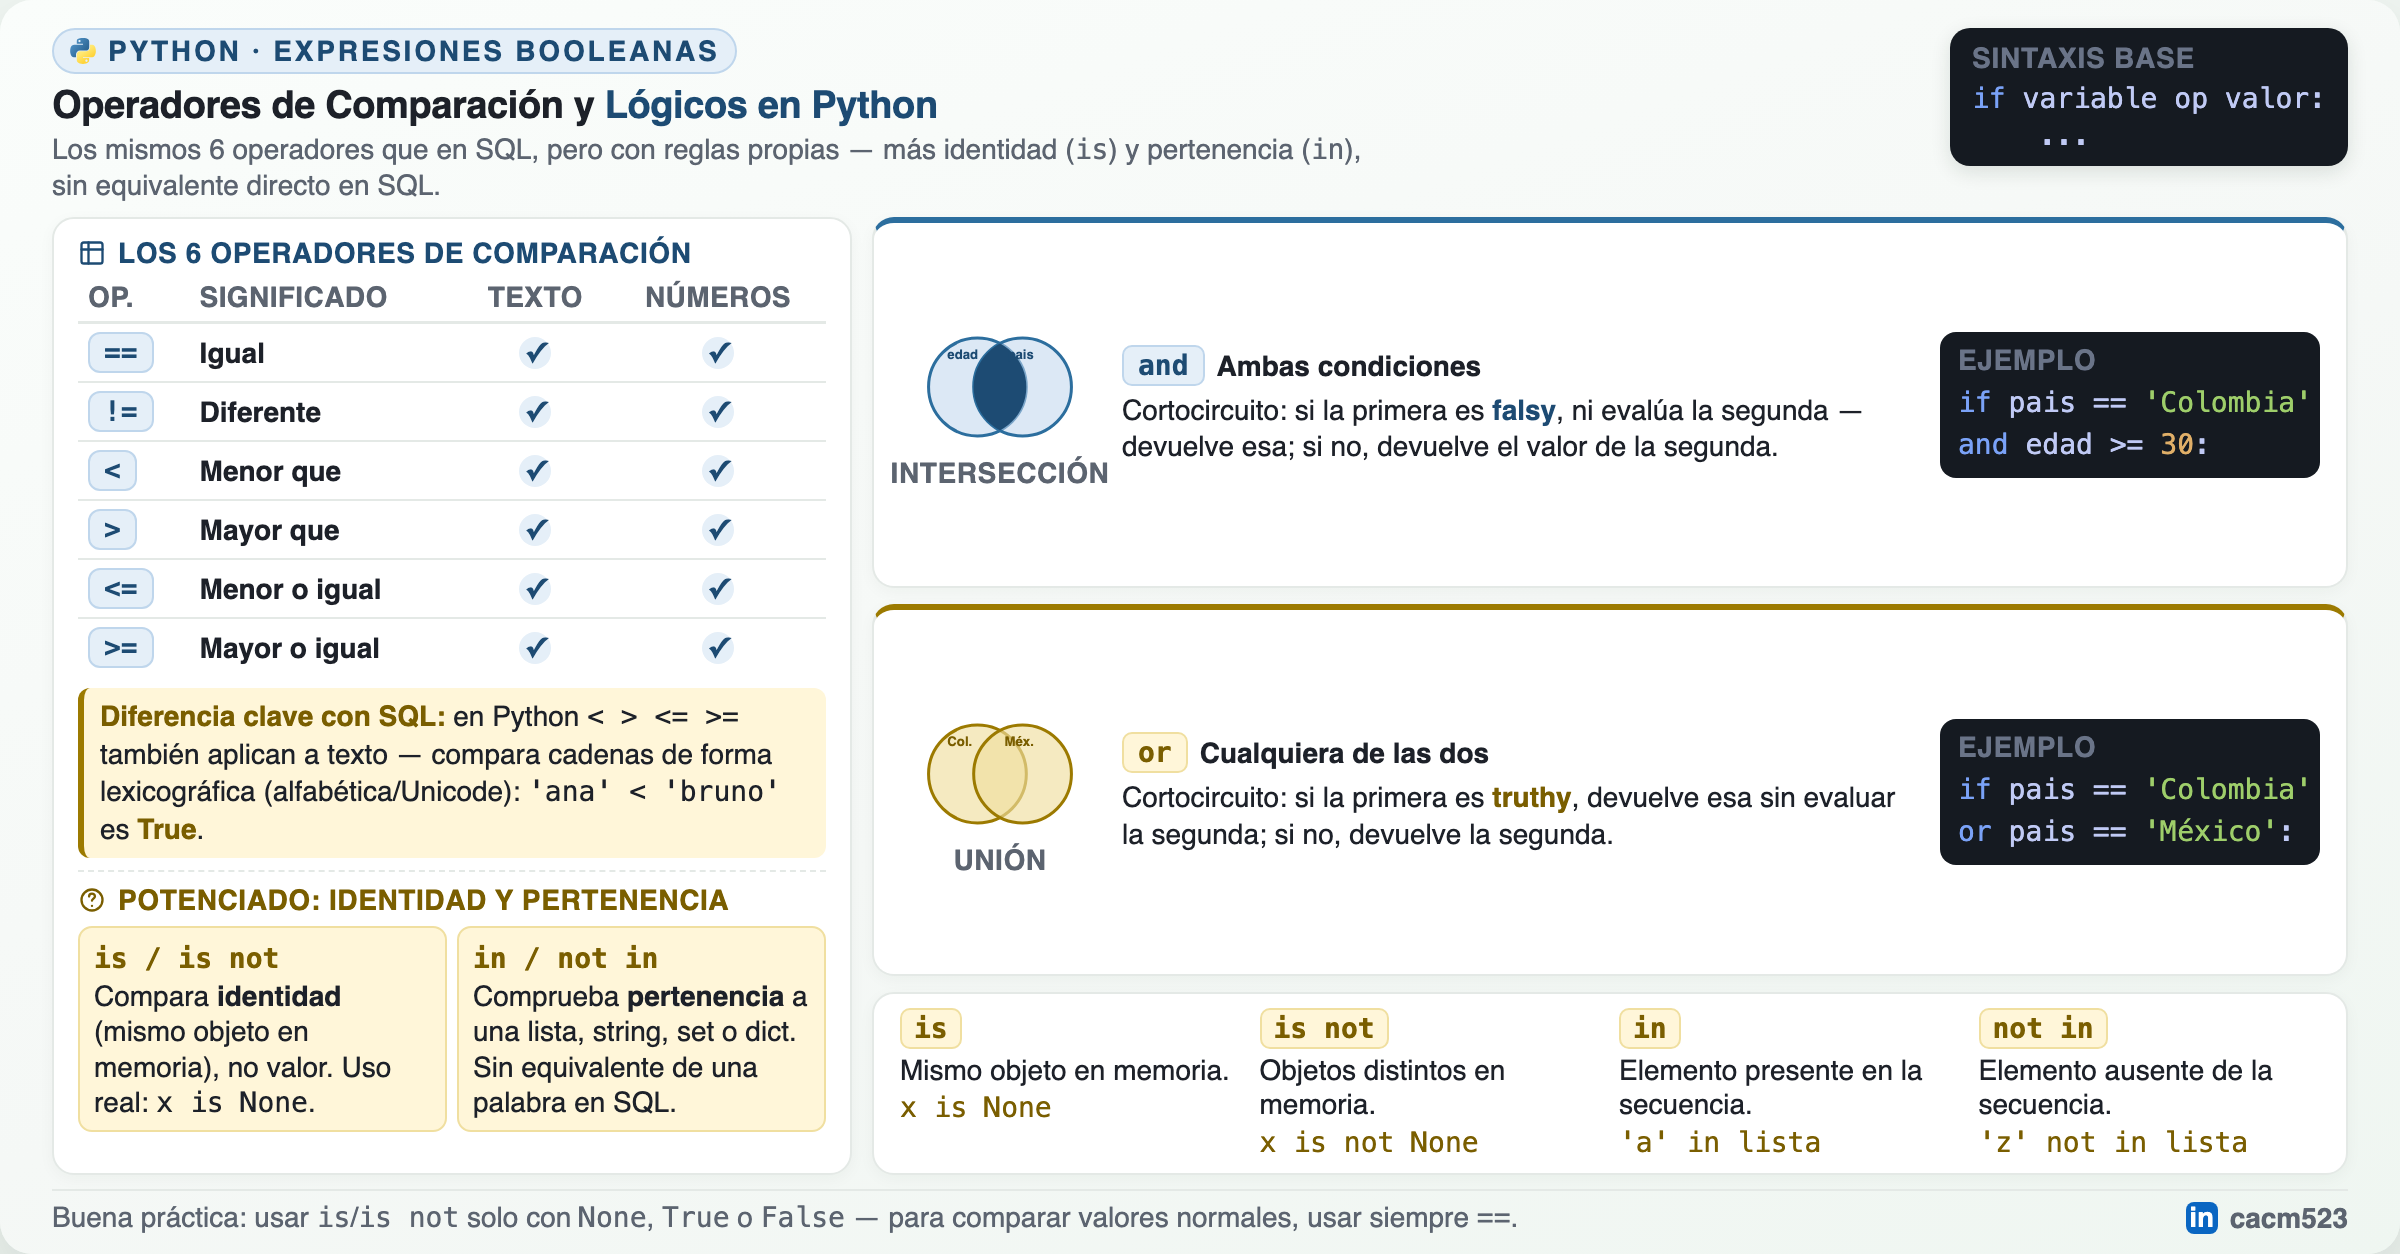
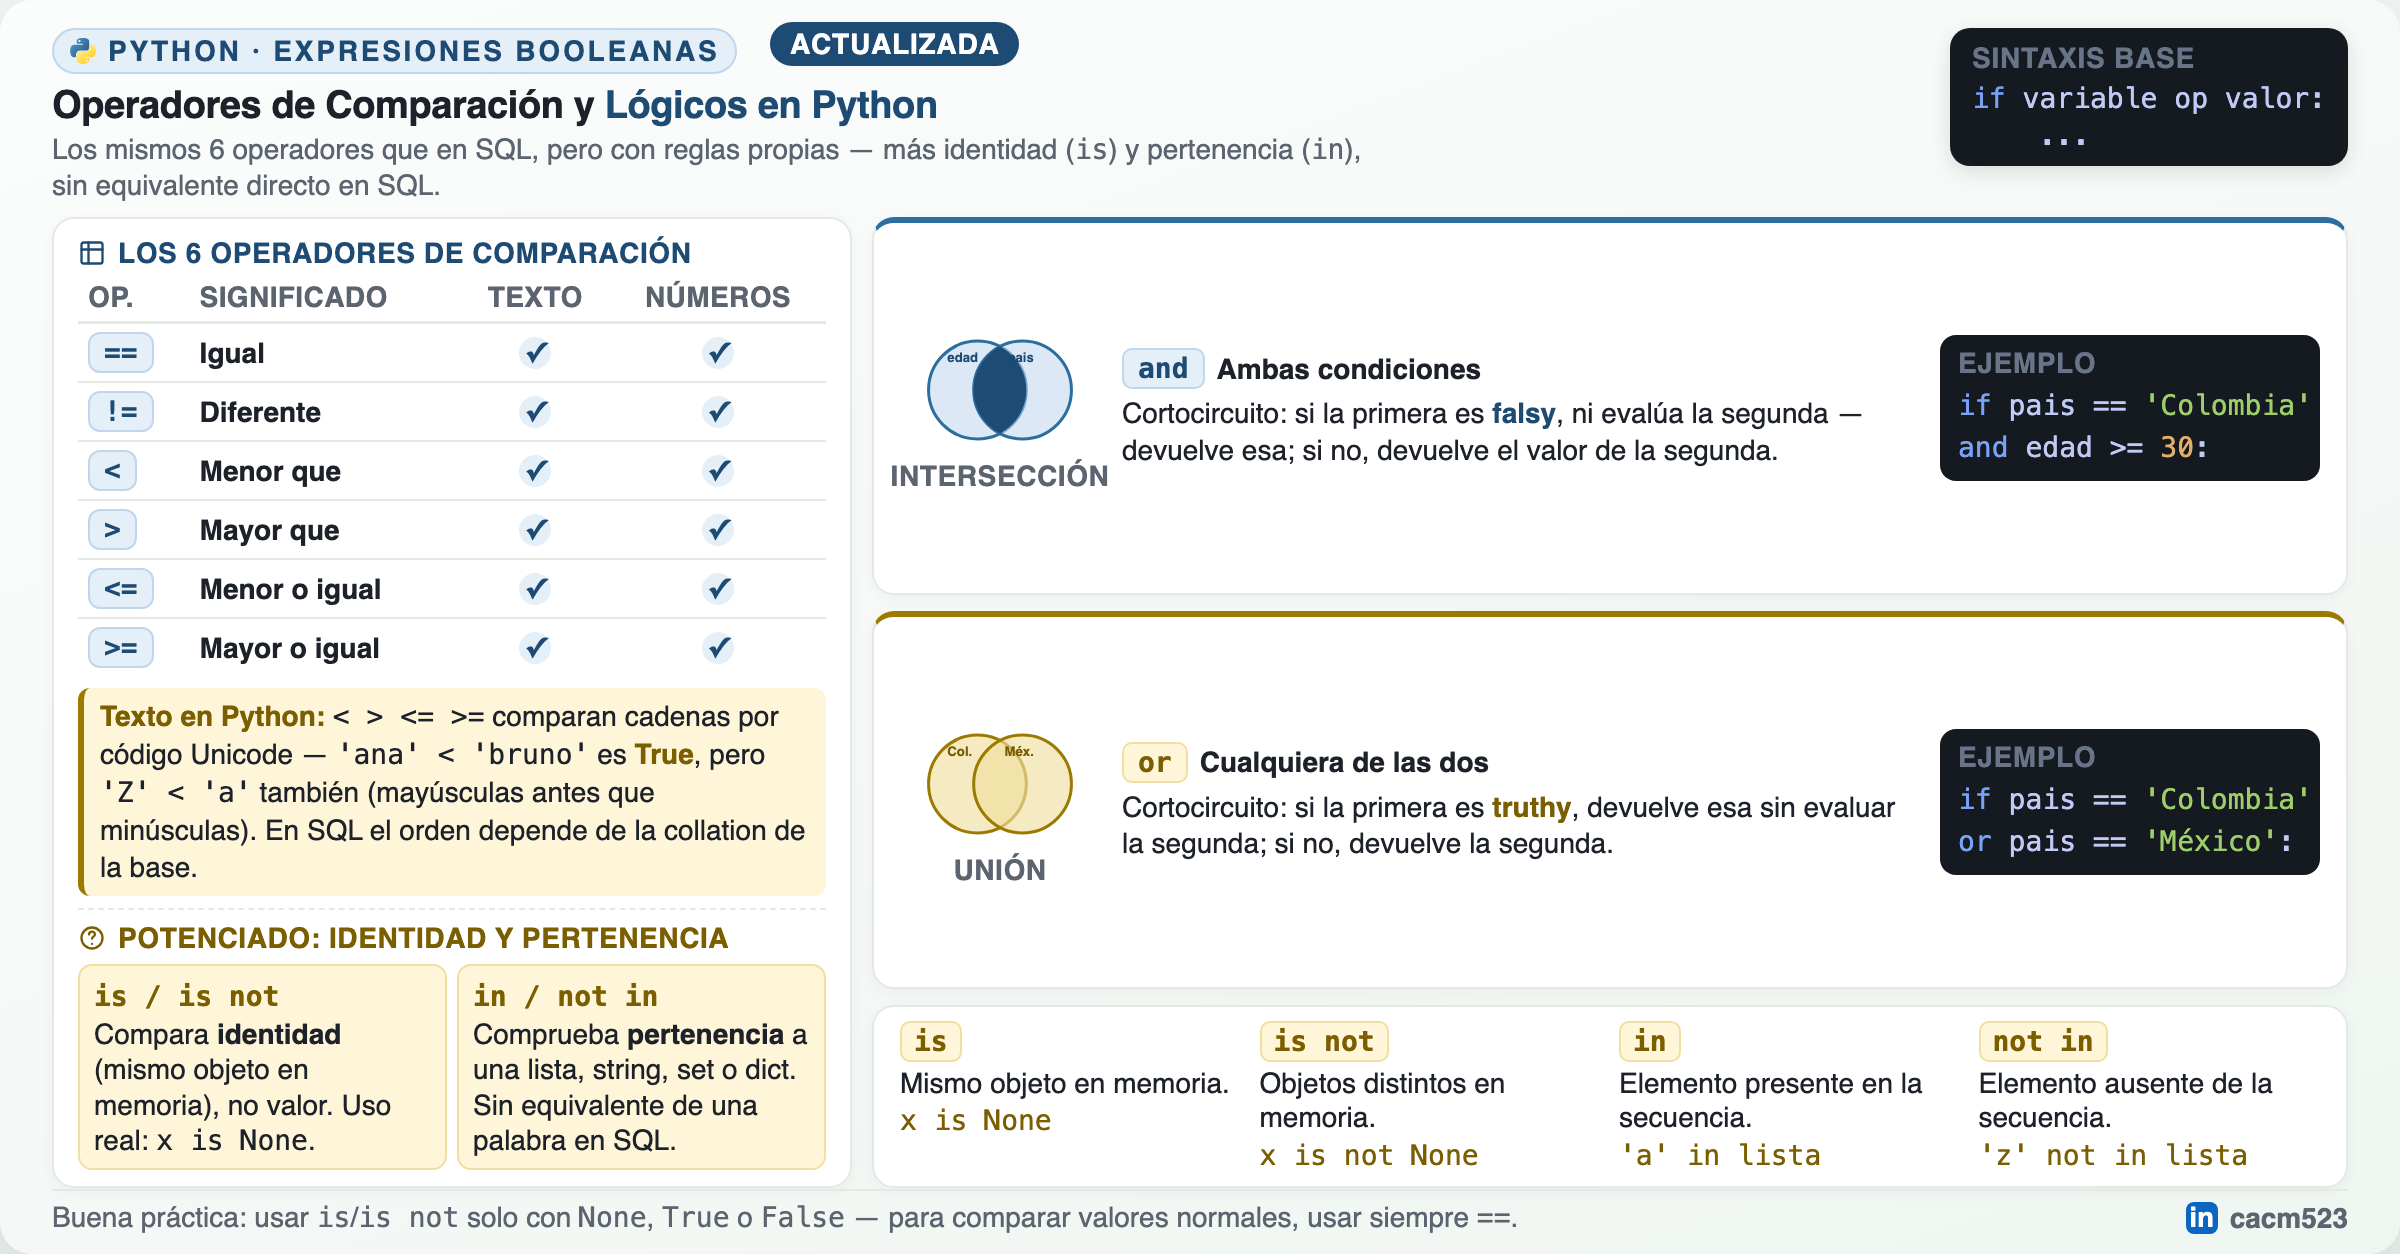
Corrige operadores de orden con texto en SQL y Python
SQL afirmaba que <,>,<=,>= no aplican a texto (falso: aplican según la
collation); Python repetía esa falsa diferencia. Versiones previas archivadas.

diff --git a/Construidos/SQL/operadores-comparacion-and-or-sql.html b/Construidos/SQL/operadores-comparacion-and-or-sql.html
@@ -83,12 +83,14 @@
   .sig{ display:flex; align-items:center; gap:6px; flex:none; }
   .li-badge{ width:16px; height:16px; border-radius:4px; background:#0A66C2; color:#fff; display:flex; align-items:center; justify-content:center; font-size:14px; font-weight:800; font-family: Arial, sans-serif; }
   .sig span{ font-size:14px; font-weight:700; color:var(--muted); }
+  .updated-badge{ position:absolute; top:8px; right:26px; background:var(--keyword); color:#0D1117; font-size:14px; font-weight:800; letter-spacing:.4px; text-transform:uppercase; padding:3px 10px; border-radius:20px; }
 </style>
 </head>
 <body>
 
 <div class="canvas-wrap">
   <div class="canvas">
+    <span class="updated-badge">Actualizada</span>
 
     <div class="header">
       <div class="eyebrow">
@@ -96,7 +98,7 @@
         SQL · Cláusula WHERE
       </div>
       <h1>Operadores de Comparación y <span>Conectores Lógicos AND / OR</span></h1>
-      <p>Cómo filtra realmente una consulta SQL: qué operadores aplican a texto y a números, y cómo AND/OR se comportan como intersección y unión de conjuntos.</p>
+      <p>Cómo filtra realmente una consulta SQL: cómo se comparan texto y números, y cómo AND/OR se comportan como intersección y unión de conjuntos.</p>
     </div>
 
     <div class="body-grid">
@@ -110,17 +112,16 @@
           <tbody>
             <tr><td><span class="sym">=</span></td><td class="nm">Igual</td><td class="center"><span class="yes">✓</span></td><td class="center"><span class="yes">✓</span></td></tr>
             <tr><td><span class="sym">&lt;&gt;</span></td><td class="nm">Diferente</td><td class="center"><span class="yes">✓</span></td><td class="center"><span class="yes">✓</span></td></tr>
-            <tr><td><span class="sym">&lt;</span></td><td class="nm">Menor que</td><td class="center"><span class="no">✕</span></td><td class="center"><span class="yes">✓</span></td></tr>
-            <tr><td><span class="sym">&gt;</span></td><td class="nm">Mayor que</td><td class="center"><span class="no">✕</span></td><td class="center"><span class="yes">✓</span></td></tr>
-            <tr><td><span class="sym">&lt;=</span></td><td class="nm">Menor o igual</td><td class="center"><span class="no">✕</span></td><td class="center"><span class="yes">✓</span></td></tr>
-            <tr><td><span class="sym">&gt;=</span></td><td class="nm">Mayor o igual</td><td class="center"><span class="no">✕</span></td><td class="center"><span class="yes">✓</span></td></tr>
+            <tr><td><span class="sym">&lt;</span></td><td class="nm">Menor que</td><td class="center"><span class="yes">✓</span></td><td class="center"><span class="yes">✓</span></td></tr>
+            <tr><td><span class="sym">&gt;</span></td><td class="nm">Mayor que</td><td class="center"><span class="yes">✓</span></td><td class="center"><span class="yes">✓</span></td></tr>
+            <tr><td><span class="sym">&lt;=</span></td><td class="nm">Menor o igual</td><td class="center"><span class="yes">✓</span></td><td class="center"><span class="yes">✓</span></td></tr>
+            <tr><td><span class="sym">&gt;=</span></td><td class="nm">Mayor o igual</td><td class="center"><span class="yes">✓</span></td><td class="center"><span class="yes">✓</span></td></tr>
           </tbody>
         </table>
-        <div class="op-note"><b>Por qué importa:</b> los operadores de orden (<code style="font-family:'SF Mono',monospace">&lt; &gt; &lt;= &gt;=</code>) solo tienen sentido sobre valores numéricos o de fecha — un motor SQL no puede decidir si "Bogotá" es "mayor" que "Cali". Con texto, solo <code style="font-family:'SF Mono',monospace">=</code> y <code style="font-family:'SF Mono',monospace">&lt;&gt;</code> aplican.</div>
-        <div class="op-legend">
-          <div><span class="yes" style="width:12px;height:12px;font-size:14px;">✓</span> Aplica</div>
-          <div><span class="no" style="width:12px;height:12px;font-size:14px;">✕</span> No aplica</div>
-        </div>
+        <div class="op-note"><b>Ojo con el texto:</b> <code style="font-family:'SF Mono',monospace">&lt; &gt; &lt;= &gt;=</code> sí aplican a texto, pero comparan según la <b>intercalación (collation)</b> de la base: <code style="font-family:'SF Mono',monospace">'Bogotá' &lt; 'Cali'</code> es verdadero, y <code style="font-family:'SF Mono',monospace">'10' &lt; '9'</code> también (se compara carácter a carácter, no como número).</div>
+        
+          
+        
       </div>
 
       <div class="logic-col">

diff --git a/Construidos/Python/operadores-logicos-comparacion-python.html b/Construidos/Python/operadores-logicos-comparacion-python.html
@@ -100,12 +100,14 @@
   .sig{ display:flex; align-items:center; gap:6px; flex:none; }
   .li-badge{ width:16px; height:16px; border-radius:4px; background:#0A66C2; color:#fff; display:flex; align-items:center; justify-content:center; font-size:14px; font-weight:800; font-family: Arial, sans-serif; }
   .sig span{ font-size:14px; font-weight:700; color:var(--muted); }
+  .updated-badge{ position:absolute; top:11px; left:385px; background:var(--pyblue-dark); color:#fff; font-size:14px; font-weight:800; letter-spacing:.4px; text-transform:uppercase; padding:3px 10px; border-radius:20px; }
 </style>
 </head>
 <body>
 
 <div class="canvas-wrap">
   <div class="canvas">
+    <span class="updated-badge">Actualizada</span>
 
     <div class="header">
       <div class="header-l">
@@ -139,7 +141,7 @@
             <tr><td><span class="sym">&gt;=</span></td><td class="nm">Mayor o igual</td><td class="center"><span class="yes">✓</span></td><td class="center"><span class="yes">✓</span></td></tr>
           </tbody>
         </table>
-        <div class="op-note"><b>Diferencia clave con SQL:</b> en Python <code style="font-family:'SF Mono',monospace">&lt; &gt; &lt;= &gt;=</code> también aplican a texto — compara cadenas de forma lexicográfica (alfabética/Unicode): <code style="font-family:'SF Mono',monospace">'ana' &lt; 'bruno'</code> es <b>True</b>.</div>
+        <div class="op-note"><b>Texto en Python:</b> <code style="font-family:'SF Mono',monospace">&lt; &gt; &lt;= &gt;=</code> comparan cadenas por código Unicode — <code style="font-family:'SF Mono',monospace">'ana' &lt; 'bruno'</code> es <b>True</b>, pero <code style="font-family:'SF Mono',monospace">'Z' &lt; 'a'</code> también (mayúsculas antes que minúsculas). En SQL el orden depende de la collation de la base.</div>
 
         <div class="idpanel">
           <h2><svg viewBox="0 0 24 24" fill="none" stroke="currentColor" stroke-width="2" stroke-linecap="round" stroke-linejoin="round"><circle cx="12" cy="12" r="9"/><path d="M9.5 9a2.5 2.5 0 0 1 5 0c0 1.5-2.5 2-2.5 3.5M12 17h.01"/></svg>Potenciado: identidad y pertenencia</h2>

diff --git a/Construidos/Python/operadores-logicos-comparacion-python.prompt.md b/Construidos/Python/operadores-logicos-comparacion-python.prompt.md
@@ -16,3 +16,7 @@
 **Paleta — corregida (2026-09-15, señalado por el usuario)**: Python es el lenguaje/aplicación protagonista y exclusiva de esta pieza → aplica la excepción de "Colores de marca por aplicación" de CLAUDE.md: azul y amarillo de marca (`#3776AB`, `#FFD43B`), no el verde+tierra por defecto. El ícono oficial de Python (`assets/iconos-apps/python.svg`) también debe usarse en el eyebrow, embebido inline — un error de la primera versión de esta pieza fue usar la paleta por defecto y un ícono genérico dibujado a mano en vez del real, corregido en esta revisión.
 
 **Catálogo**: `categoriaPrincipal: "programacion"`, `temas: ["python"]`.
+
+## Corrección (2026-10-06)
+
+El usuario pidió revisar la afirmación sobre operadores de orden con texto. Verificado: en Python `<`, `>`, `<=`, `>=` **sí** funcionan con cadenas (comparación por código Unicode: `'ana' < 'bruno'` y `'Z' < 'a'` son `True`), y en SQL ANSI también aplican a `CHAR`/`VARCHAR` según la collation de la base (`'Bogotá' < 'Cali'` es verdadero; `'10' < '9'` también, por comparar como texto). La versión anterior de la pieza SQL afirmaba lo contrario (✕ en texto, "solo `=` y `<>` aplican") y la pieza Python repetía esa falsa diferencia frente a SQL — ambas corregidas, con insignia "Actualizada". Versiones previas archivadas en `Archivadas/*-2026-10-06/`.

diff --git a/Construidos/SQL/operadores-comparacion-and-or-sql.prompt.md b/Construidos/SQL/operadores-comparacion-and-or-sql.prompt.md
@@ -197,3 +197,7 @@ Evitar repetir la estructura de grid/tarjetas ya usada en otras piezas de `Const
 ### Paleta
 
 Paleta verde + tierra por defecto del proyecto (no es una pieza sobre una aplicación de marca específica — SQL Server no es el tema central, solo el motor de referencia para la sintaxis). El bloque de código puede usar fondo oscuro tipo editor localmente (patrón habitual: bloque de código oscuro dentro de canvas claro), sin activar la excepción de dark-mode total porque la pieza no es predominantemente código — es una explicación conceptual con ejemplos de código como apoyo.
+
+## Corrección (2026-10-06)
+
+El usuario pidió revisar la afirmación sobre operadores de orden con texto. Verificado: en Python `<`, `>`, `<=`, `>=` **sí** funcionan con cadenas (comparación por código Unicode: `'ana' < 'bruno'` y `'Z' < 'a'` son `True`), y en SQL ANSI también aplican a `CHAR`/`VARCHAR` según la collation de la base (`'Bogotá' < 'Cali'` es verdadero; `'10' < '9'` también, por comparar como texto). La versión anterior de la pieza SQL afirmaba lo contrario (✕ en texto, "solo `=` y `<>` aplican") y la pieza Python repetía esa falsa diferencia frente a SQL — ambas corregidas, con insignia "Actualizada". Versiones previas archivadas en `Archivadas/*-2026-10-06/`.
